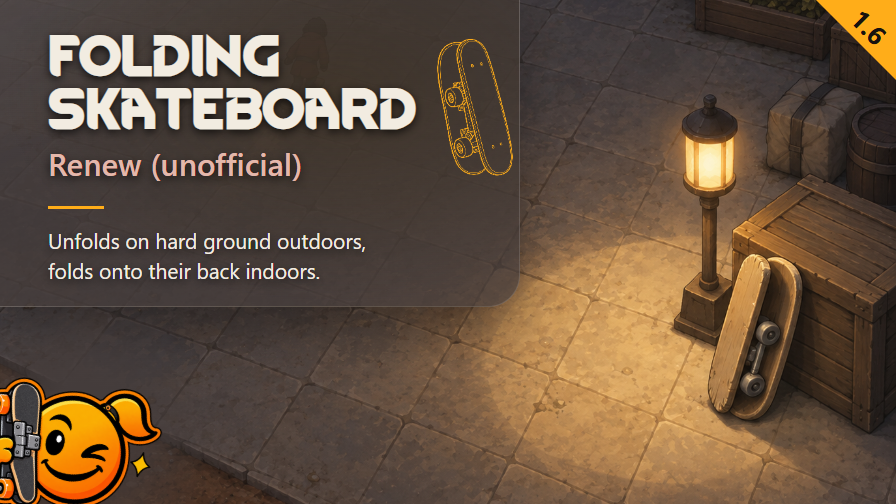
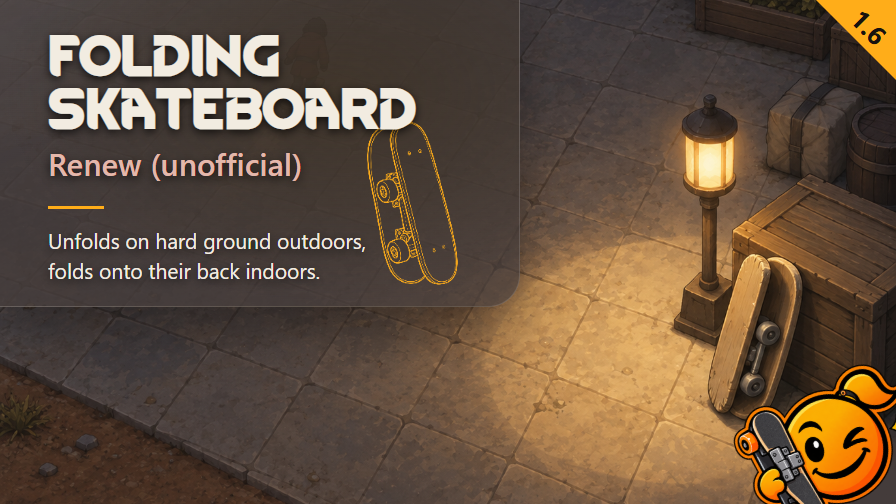
Preview: re-render from the owner's new Preview.config.json (validated 2026-10-25)

Changed region(s): [[0.8125, 0.7143, 1.0, 1.0], [0.0, 0.744, 0.1875, 1.0], [0.4062, 0.0595, 0.5625, 0.5655]]

diff --git a/STATUS.md b/STATUS.md
@@ -101,6 +101,10 @@ Reviewer: Virginie, 2026-10-11, FRENCH_REVIEW.md at revision `5b694f5`; correcti
 
 Echo: kept as new line-art `Art/echo-preview.png` (replaces `echo.png` and `echo-source.svg`; shows board itself, which gallery shows). `Art/Preview.config.json` now points at it, with `panelRight -13`, `panelWidth 42`, `panelTop 8` so outline sits clear of title (first render crossed final D). Rendered with shared `Render-Preview.cjs`: `Mod/About/Preview.png` 896 x 504, 600,926 bytes; `Art/Gallery/0-preview.png` is byte copy (tracked name was `0-Preview.png`, renamed). Text, palette, badge unchanged, so earlier contrast measurements stand; not measured again on this render. GitHub social preview uploaded through browser, `og:image` downloaded and byte-identical (`social_preview_sha256` above). Nothing published to Workshop: Steam page of item 3806761118 still carries old image until 1.0.0 publish.
 
+## Preview re-render — 2026-10-25
+
[1 lines of base64/hex data omitted]
+
 ## Folded history
 
 Superseded 2026-09-13 decisions, sweep notes and 2026-09-13 to 2026-10-03 dated sections moved to [docs/STATUS-HISTORY.md](docs/STATUS-HISTORY.md) on 2026-10-13 (rule: STATUS.md keeps current state only).
